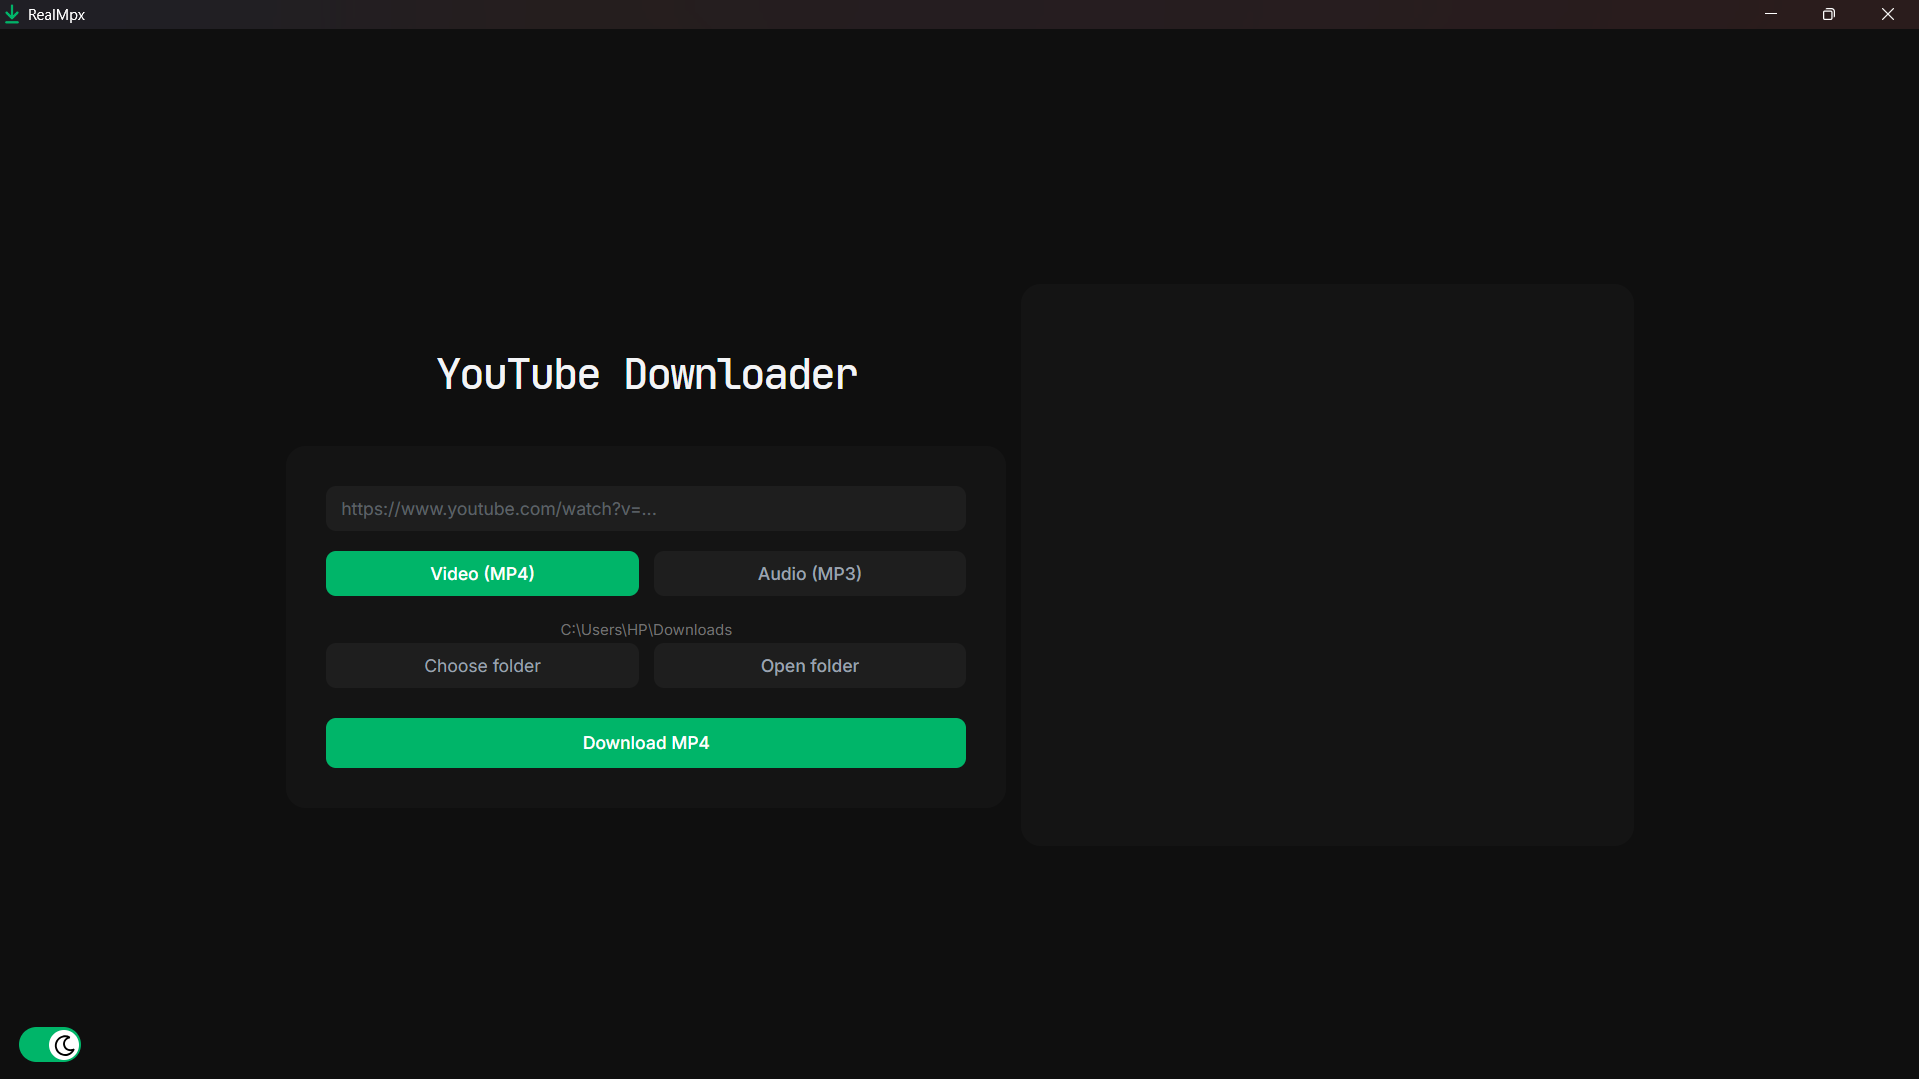
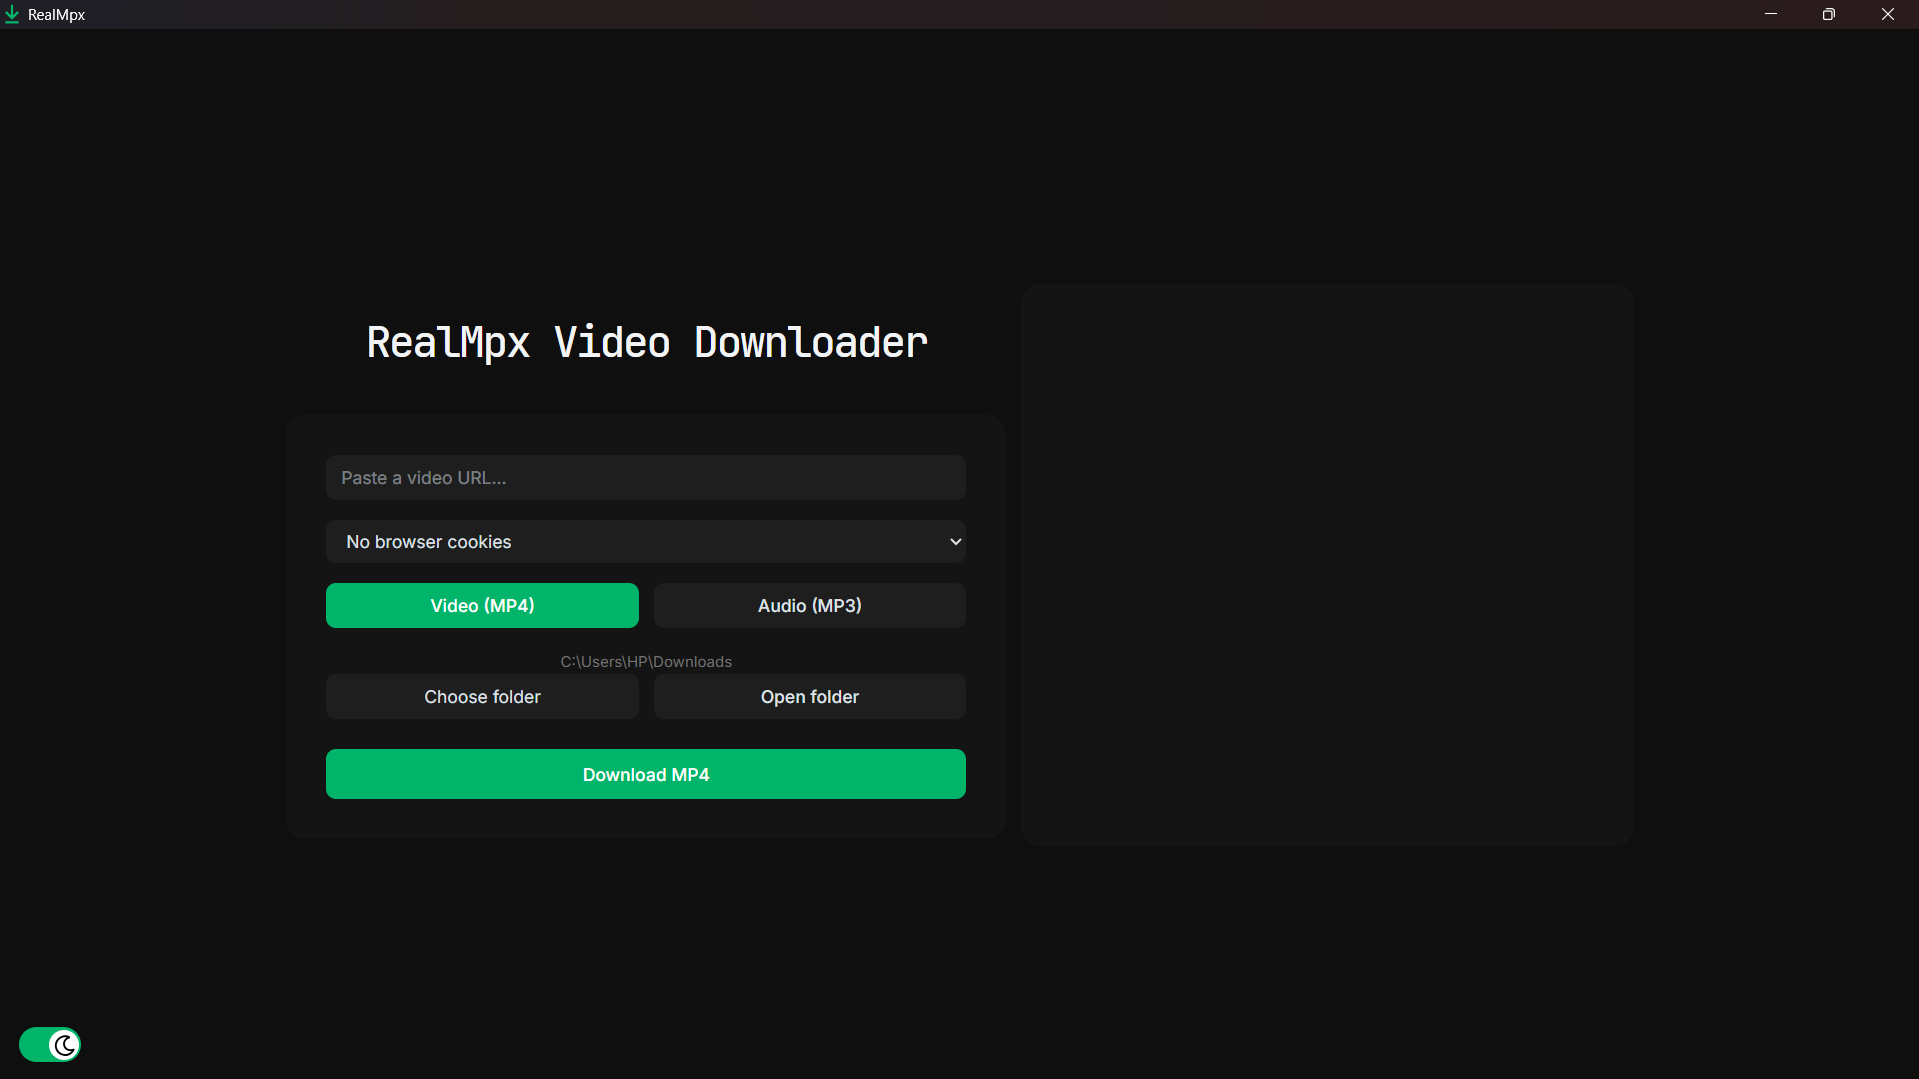
Updated

Changed region(s): [[0.1537, 0.4282, 0.5227, 0.7646], [0.1845, 0.3058, 0.4919, 0.367], [0.3997, 0.5199, 0.4612, 0.5811]]

diff --git a/src/style.css b/src/style.css
@@ -1,5 +1,5 @@
 body[data-theme="light"] {
-  --text: black;
+  --text: #08060d;
   --text-h: #08060d;
   --bg: #fff;
   --border: #e5e4e7;
@@ -133,6 +133,7 @@ button {
   }
 }
 
+select,
 input,
 button {
   font-family: Inter, sans-serif;

diff --git a/src-tauri/src/lib.rs b/src-tauri/src/lib.rs
@@ -8,6 +8,23 @@ use tokio::io::{AsyncBufReadExt, BufReader};
 use tokio::process::Command;
 use tokio::sync::Mutex as AsyncMutex;
 
+#[cfg(windows)]
+use std::os::windows::process::CommandExt;
+
+#[cfg(windows)]
+const CREATE_NO_WINDOW: u32 = 0x08000000;
+
+/// Builds a tokio Command configured to avoid flashing a console window
+/// on Windows when spawning a child process from a GUI app.
+fn new_command(program: &str) -> Command {
+    let mut cmd = Command::new(program);
+    #[cfg(windows)]
+    {
+        cmd.creation_flags(CREATE_NO_WINDOW);
+    }
+    cmd
+}
+
 #[derive(Debug, Deserialize)]
 pub struct DownloadRequest {
     url: String,
@@ -46,7 +63,7 @@ fn send_signal(pid: u32, sig: nix::sys::signal::Signal) -> Result<(), String> {
 
 #[cfg(windows)]
 async fn kill_windows_process(pid: u32) -> Result<(), String> {
-    Command::new("taskkill")
+    new_command("taskkill")
         .args(["/PID", &pid.to_string(), "/T", "/F"])
         .output()
         .await
@@ -99,7 +116,7 @@ async fn download_media(
     args.push("--newline".into());
     args.push("--no-playlist".into());
 
-    let mut child = Command::new("yt-dlp")
+    let mut child = new_command("yt-dlp")
         .args(&args)
         .stdout(Stdio::piped())
         .stderr(Stdio::piped())
@@ -239,17 +256,20 @@ fn get_default_path(app: tauri::AppHandle) -> String {
 
 #[tauri::command]
 fn open_result_dir(dir: String) {
-    let arg = format!("explorer {}", dir);
-    let _ = Command::new("pwsh")
-        .args(["/c"])
-        .arg(arg)
-        .spawn()
-        .map_err(|e| e.to_string());
+    // Launch explorer directly with the path as its own argument rather than
+    // building a shell command string — avoids quoting/injection issues and
+    // the extra pwsh dependency, and doesn't flash a console window.
+    let mut cmd = std::process::Command::new("explorer");
+    #[cfg(windows)]
+    {
+        cmd.creation_flags(CREATE_NO_WINDOW);
+    }
+    let _ = cmd.arg(dir).spawn();
 }
 
 #[tauri::command]
 async fn check_yt_dlp_installed() -> bool {
-    Command::new("yt-dlp")
+    new_command("yt-dlp")
         .arg("--version")
         .output()
         .await
@@ -259,7 +279,7 @@ async fn check_yt_dlp_installed() -> bool {
 
 #[tauri::command]
 async fn check_ffmpeg_installed() -> bool {
-    Command::new("ffmpeg")
+    new_command("ffmpeg")
         .arg("-version")
         .output()
         .await
